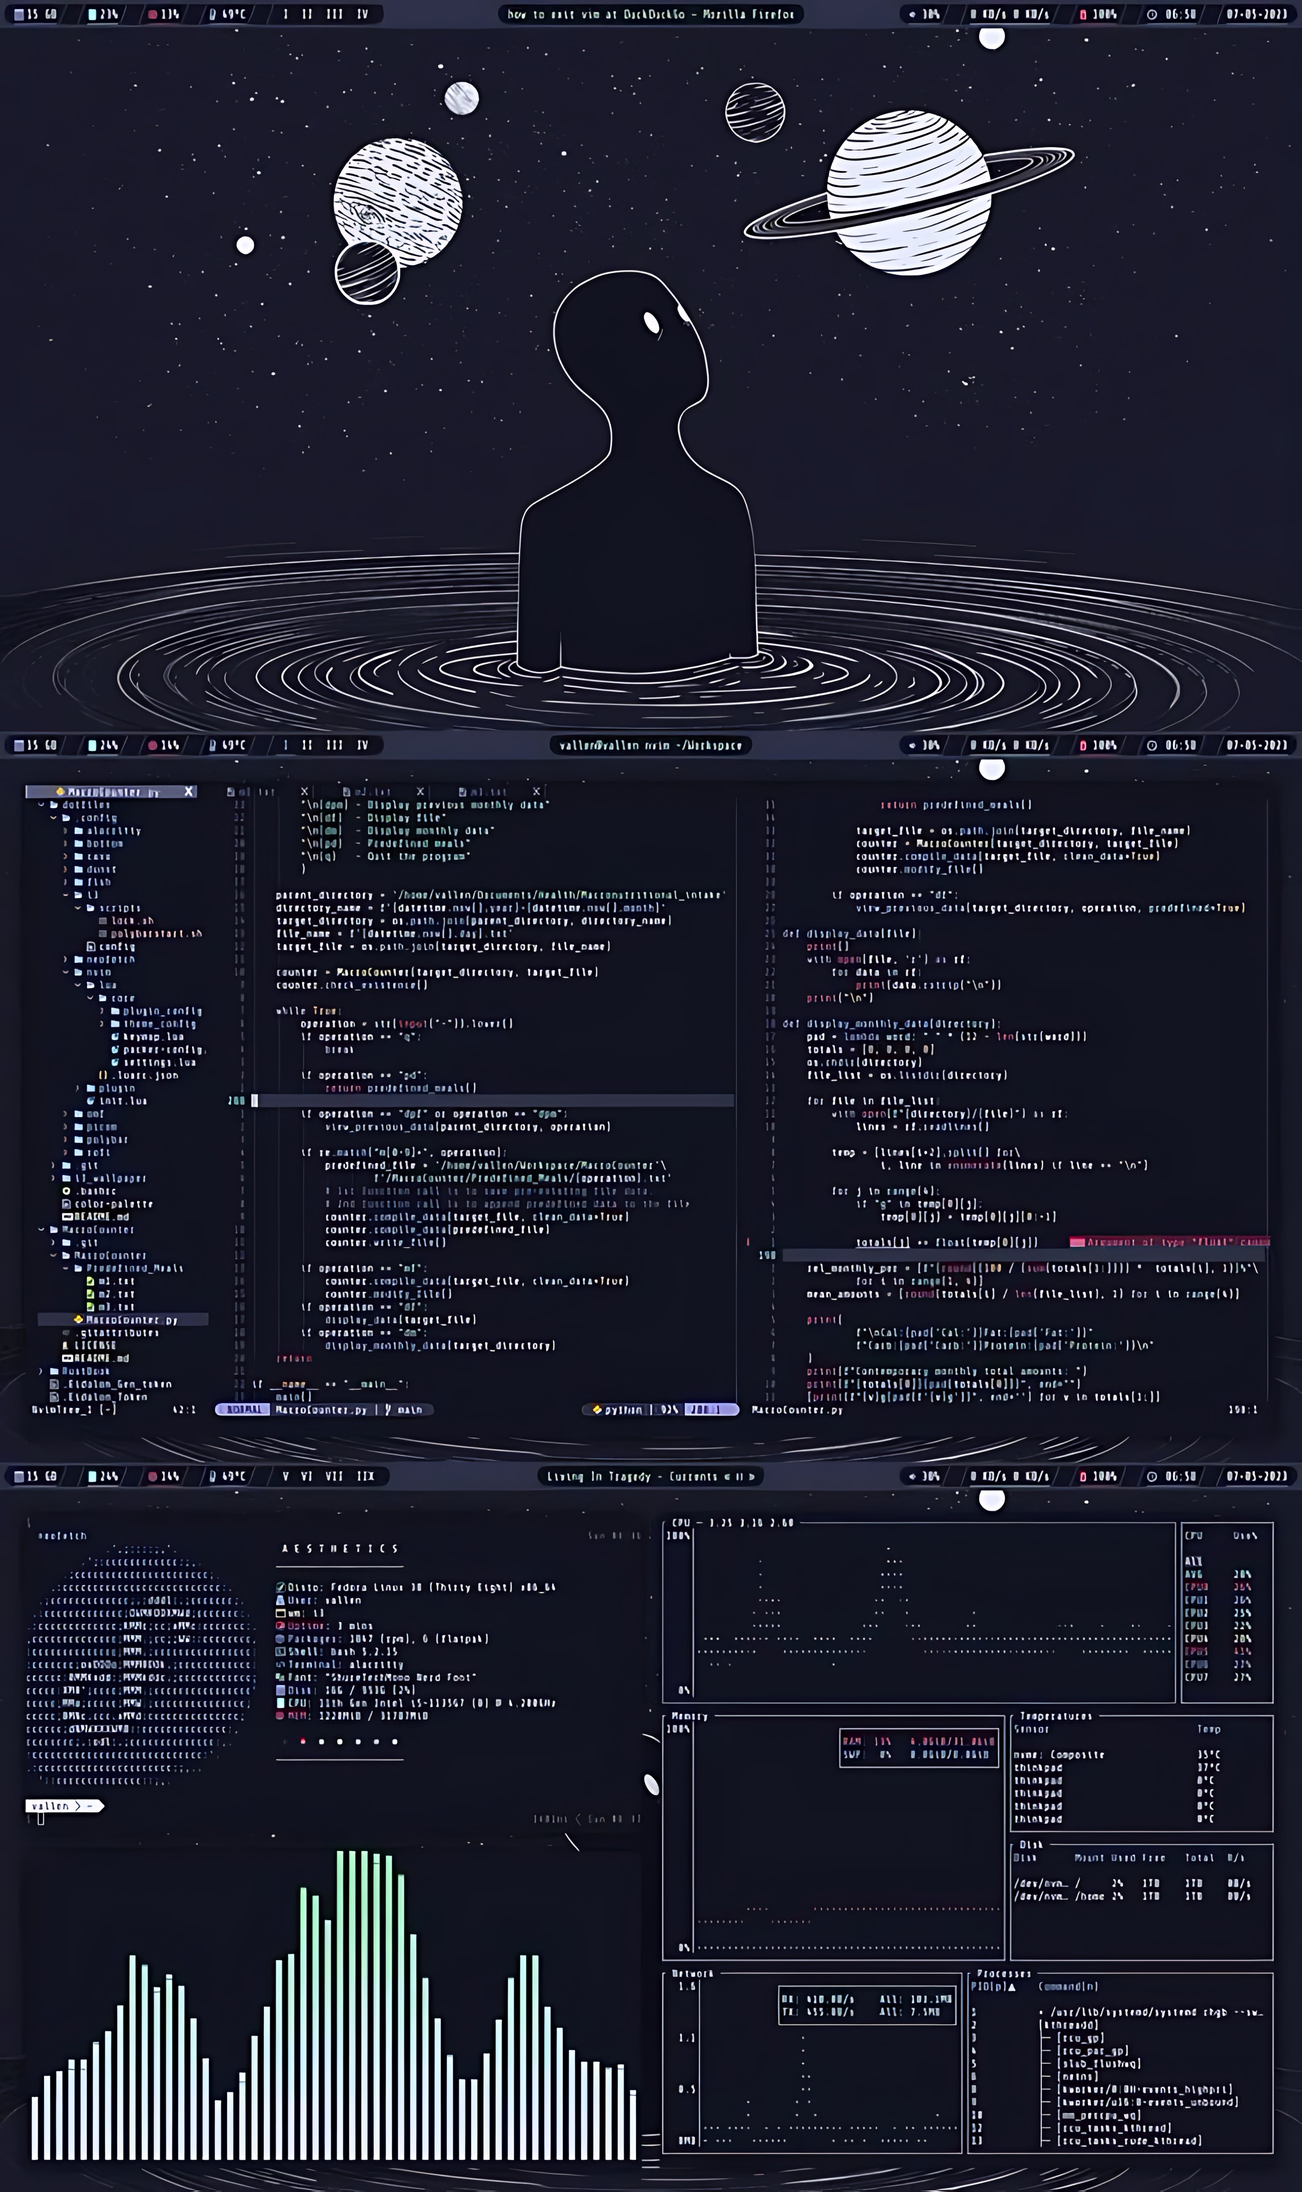
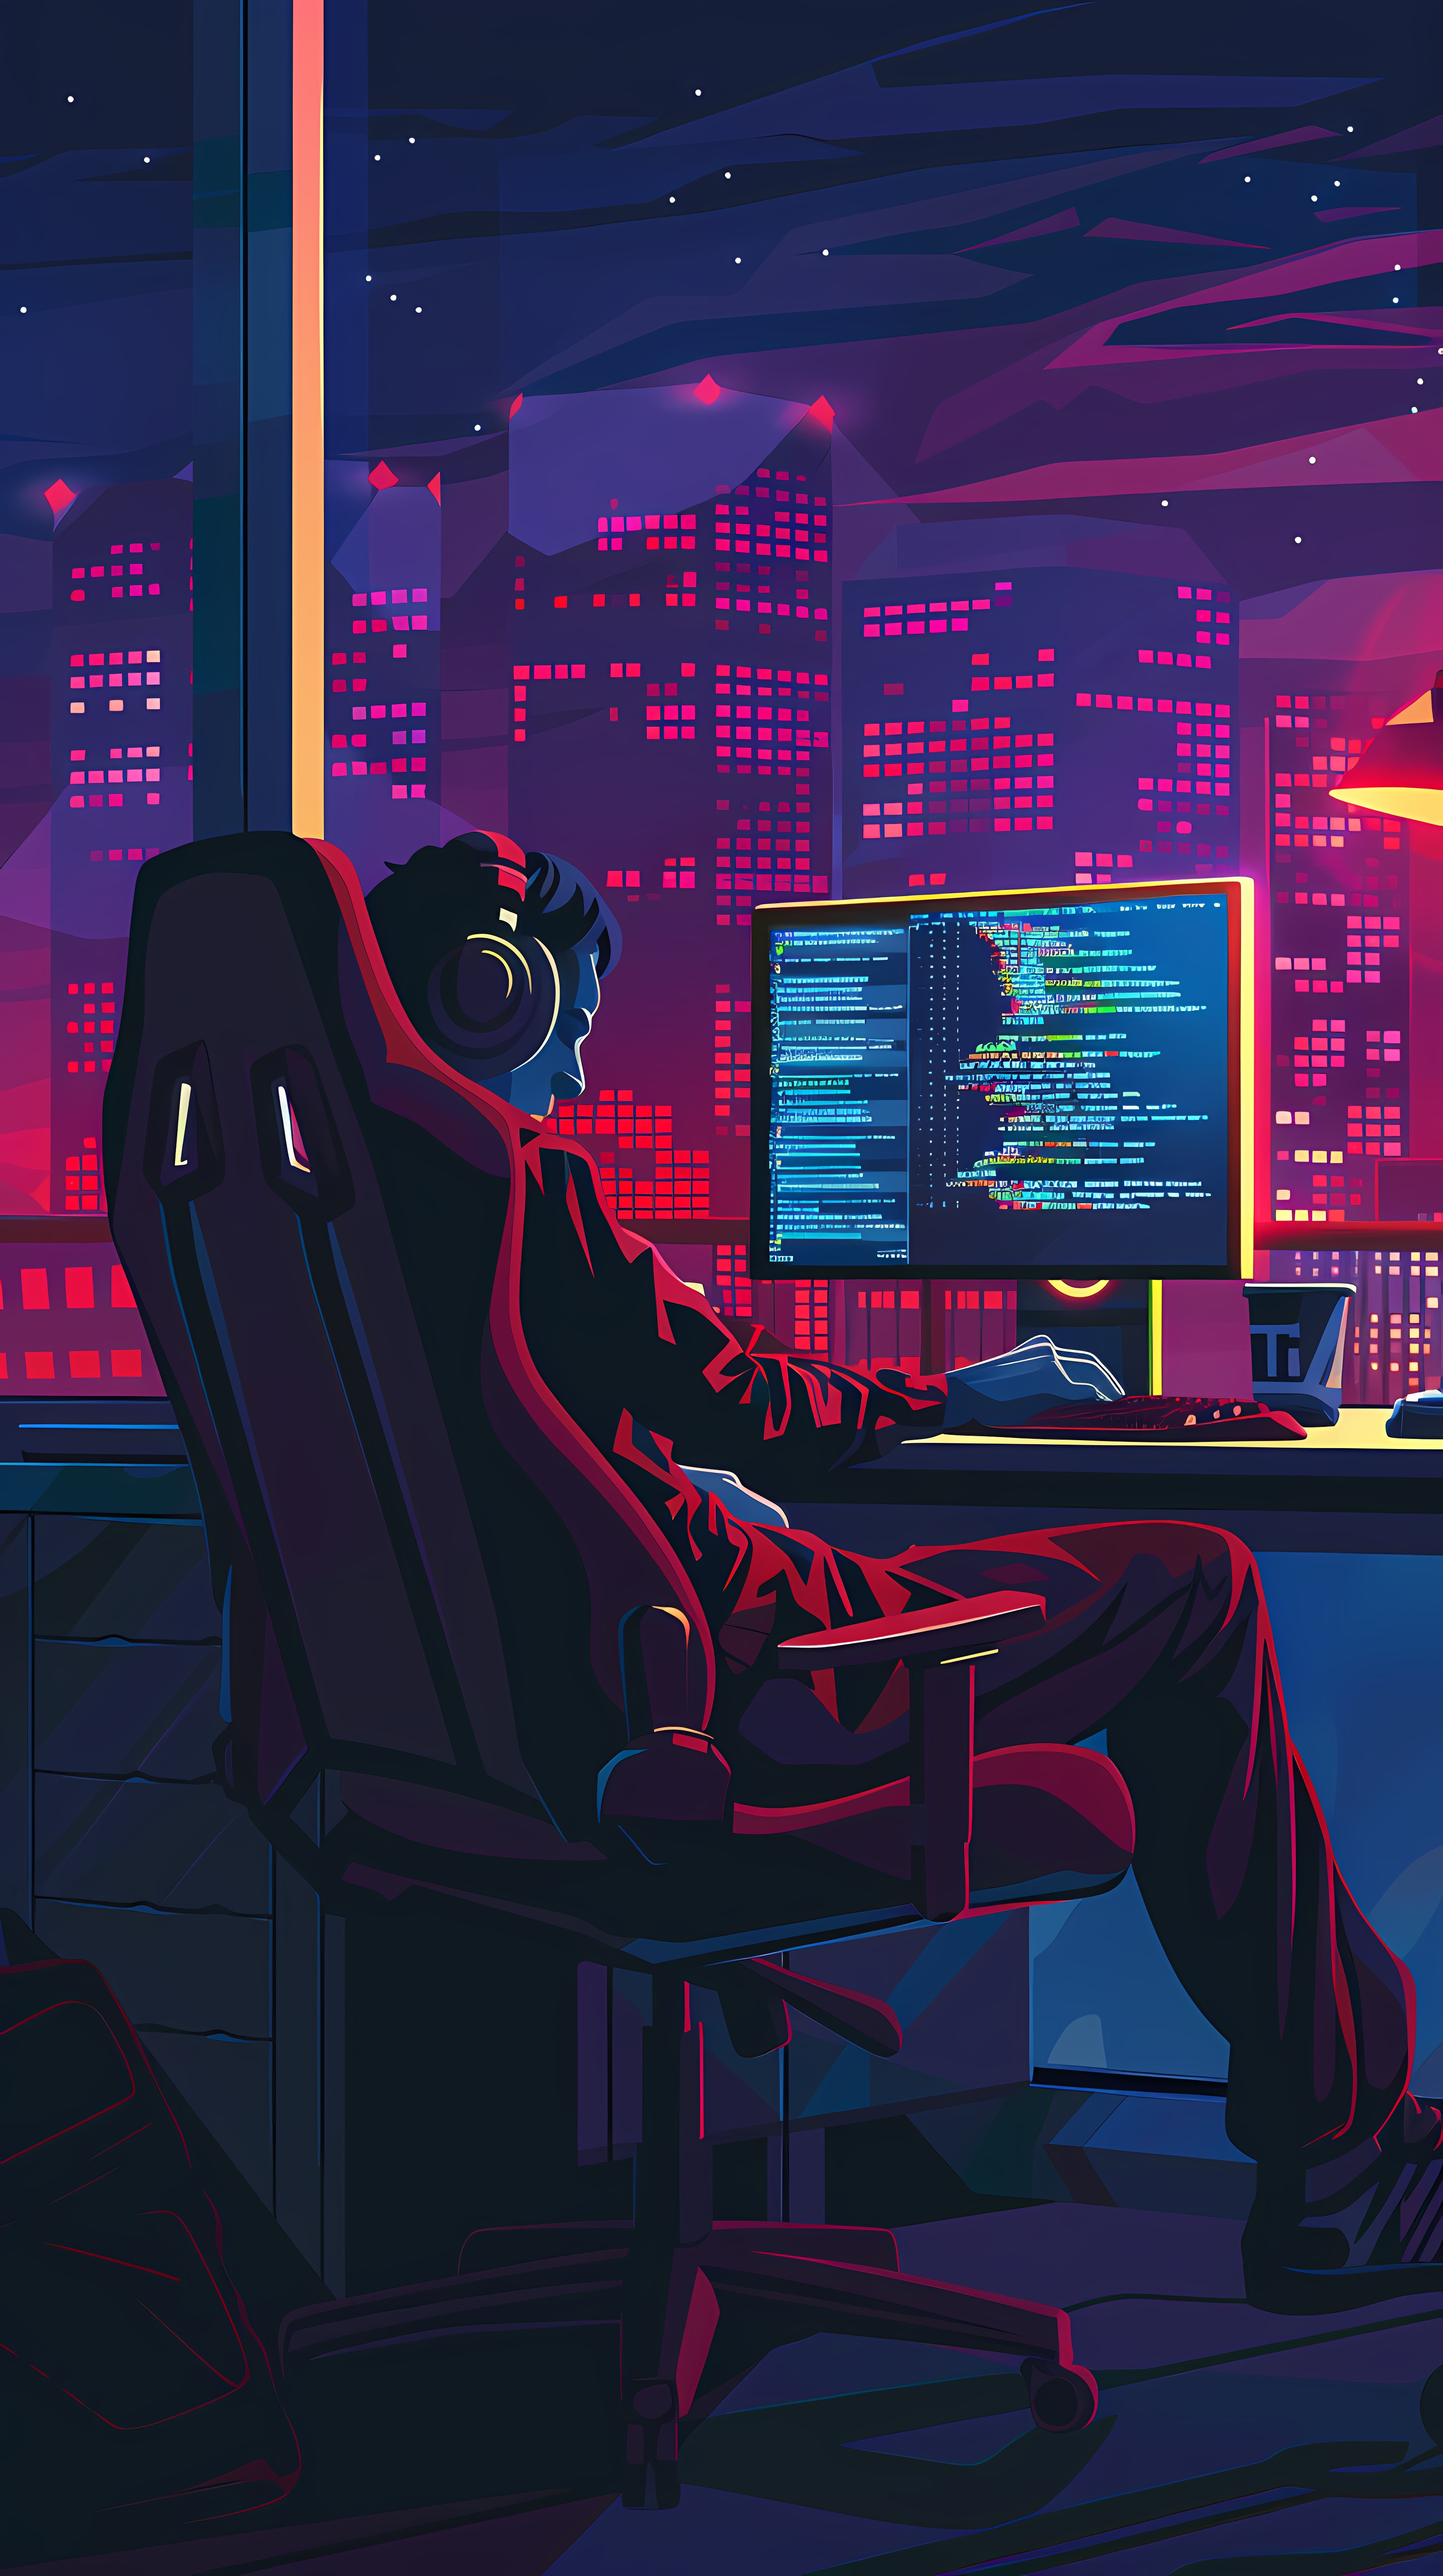
Ajout de nouvelles compétences

diff --git a/index.html b/index.html
@@ -143,7 +143,7 @@
             <span class="about-img1 animate-me"></span>
             <div class="about-content">
                 <h2 class="animate-me" style="margin-left: auto;margin-right: auto;">A propos de moi</h2>
-                <h5 class="animate-me" style="margin-left: auto;margin-right: auto;">Je suis un développeur Fullstack junior passionné par le code et les nouvelles technologies. Mon objectif est de transformer des idées complexes en applications performantes et intuitives.Avec une solide base en développement web, je maîtrise les technologies frontend comme HTML, CSS, JavaScript et des frameworks modernes tels que symfony, Vue.js et Angular. Côté backend, je suis à l’aise avec des langages et outils comme Node.js, Python (Django), et les bases de données comme MySQL, MongoDB.</h5>
+                <h5 class="animate-me" style="margin-left: auto;margin-right: auto;">Je suis un développeur Fullstack junior actuellement en Master Data&IA passionné par le code et les nouvelles technologies. Mon objectif est de transformer des idées complexes en applications performantes et intuitives.Avec une solide base en développement web, je maîtrise les technologies frontend comme HTML, CSS, JavaScript et des frameworks modernes tels que symfony, Vue.js et Angular. Côté backend, je suis à l’aise avec des langages et outils comme Node.js, Python (Django), et les bases de données comme MySQL, MongoDB.</h5>
             </div>
             <span class="about-img2 animate-me"></span>
         </div>
@@ -165,6 +165,18 @@
                 <div class="portfolio-img" id="mobile">
 
                     
+
+                    <div class="img-area">
+                        <img src="images/turnover.png" id="recommandation" alt="portfolio img" sizes="10">
+                     </div>
+
+                     <div class="img-area">
+                        <img src="https://github.com/Yohannkp/EDA-Projet-TIKTOK/blob/main/images/capture.png?raw=true" id="recommandation" alt="portfolio img" sizes="10">
+                     </div>
+
+                     <div class="img-area">
+                        <img src="https://github.com/Yohannkp/A-B-Testing-Tiktok/blob/main/images/capture.png?raw=true" id="recommandation" alt="portfolio img" sizes="10">
+                     </div>
 
                     <div class="img-area">
                         <img src="images/recommandation film.png" id="recommandation" alt="portfolio img" sizes="10">
@@ -192,6 +204,60 @@
                 </div>
                 
                 <div class="portfolio-content-wrapper">
+
+                    <div class="portfolio-content">
+                        <span class="portfolio-type">Model Machine Learning</span>
+                        <h2>Prédire le départ des employé d'une entreprise</h2>
+                        <p class="text-mobile">Ce projet explore les facteurs influençant le départ des employés en entreprise et utilise des modèles de Machine Learning pour prédire le turnover.L'objectif est d'aider les entreprises à mieux comprendre les raisons du turnover et à améliorer la rétention des employés grâce à une analyse de données et des modèles prédictifs.
+                            🚀 Modèles Testés : <br>
+                            ✔ Régression Logistique
+                            ✔ Arbre de Décision
+                            ✔ Forêt Aléatoire (Random Forest)
+
+                        </p>
+                        <a href="https://github.com/Yohannkp/Projet-Salifort-Motors..git" class="live-view link-default">Voir plus
+                            <span>
+                                <img src="images/arrow-right-white.png" alt="arrow">
+                            </span>
+                        </a>
+                    </div>
+
+
+                    <div class="portfolio-content">
+                        <span class="portfolio-type">Analyse Exploratoire des Données (AED) </span>
+                        <h2>Comprendre les relations entre les données</h2>
+                        <p class="text-mobile">Mission : <br> Effectuer une analyse exploratoire des données sur les données du projet de classification des sinistres.<br> Utiliser également Tableau pour créer des visualisations pour un Résumé exécutif afin d'aider les parties prenantes non techniques à s'engager et à interagir avec les données.
+
+                        </p>
+                        <a href="https://github.com/Yohannkp/EDA-Projet-TIKTOK.git" class="live-view link-default">Voir plus
+                            <span>
+                                <img src="images/arrow-right-white.png" alt="arrow">
+                            </span>
+                        </a>
+                    </div>
+
+
+                    <div class="portfolio-content">
+                        <span class="portfolio-type">📊 A/B Testing et Analyse Statistique sur TikTok 🎯</span>
+                        <h2>Analyse des facteurs influençant la viralité des vidéos TikTok</h2>
+                        <p class="text-mobile">Dans ce projet, nous avons effectué des tests A/B et une analyse statistique avancée pour identifier les facteurs qui influencent la viralité des vidéos sur TikTok.
+                            🔍 Objectifs :
+                            ✅ Déterminer si certains critères (durée, commentaires, partages, statut de vérification...) influencent les vues.
+                            ✅ Tester des hypothèses avec des tests de Student (t-test).
+                            ✅ Extraire des insights exploitables pour optimiser la performance des vidéos.
+
+                        </p>
+                        <a href="https://github.com/Yohannkp/A-B-Testing-Tiktok/blob/main/images/capture.png?raw=true" class="live-view link-default">Voir plus
+                            <span>
+                                <img src="images/arrow-right-white.png" alt="arrow">
+                            </span>
+                        </a>
+                    </div>
+
+
+                    
+
+                   
 
                     <div class="portfolio-content">
                         <span class="portfolio-type">Model Machine Learning</span>
